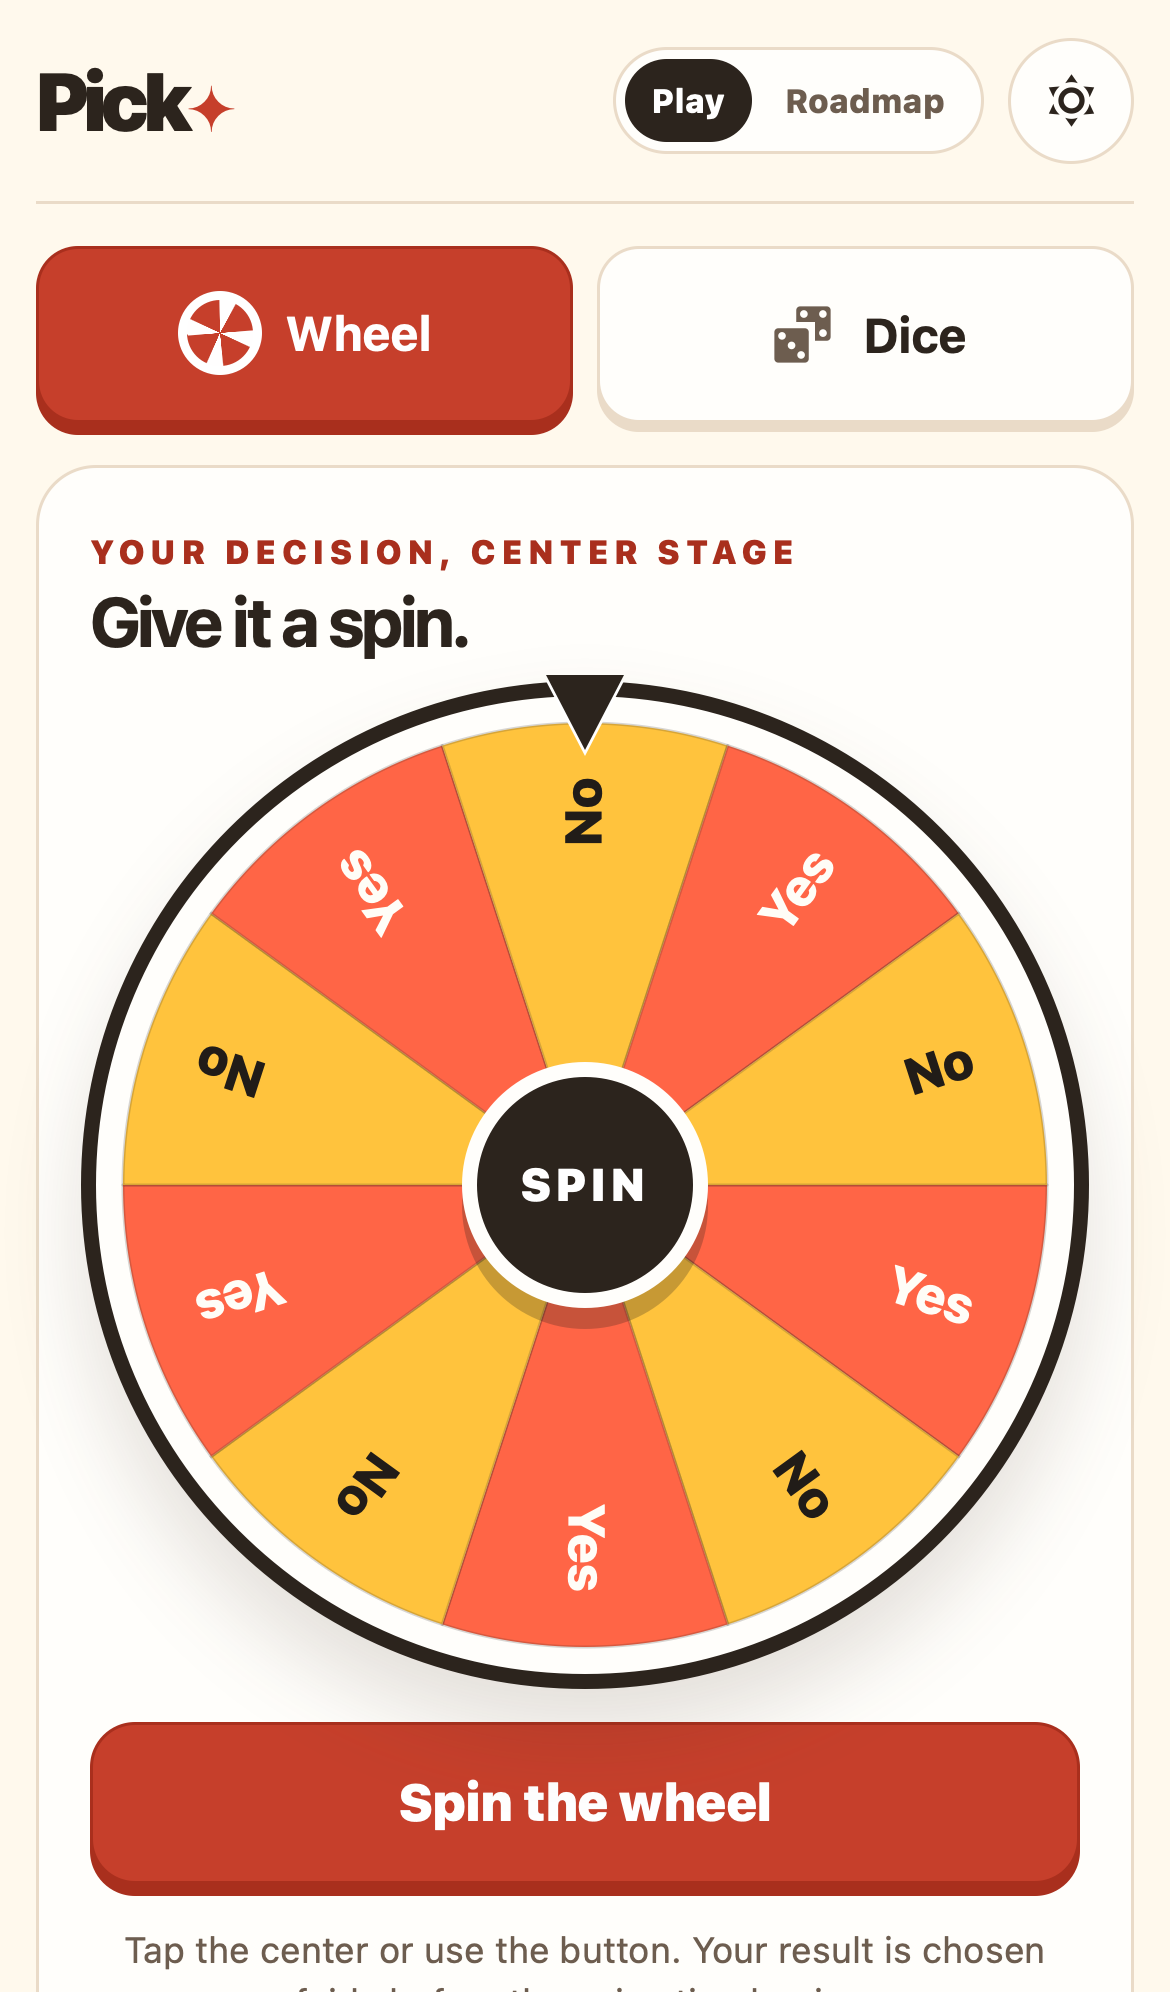
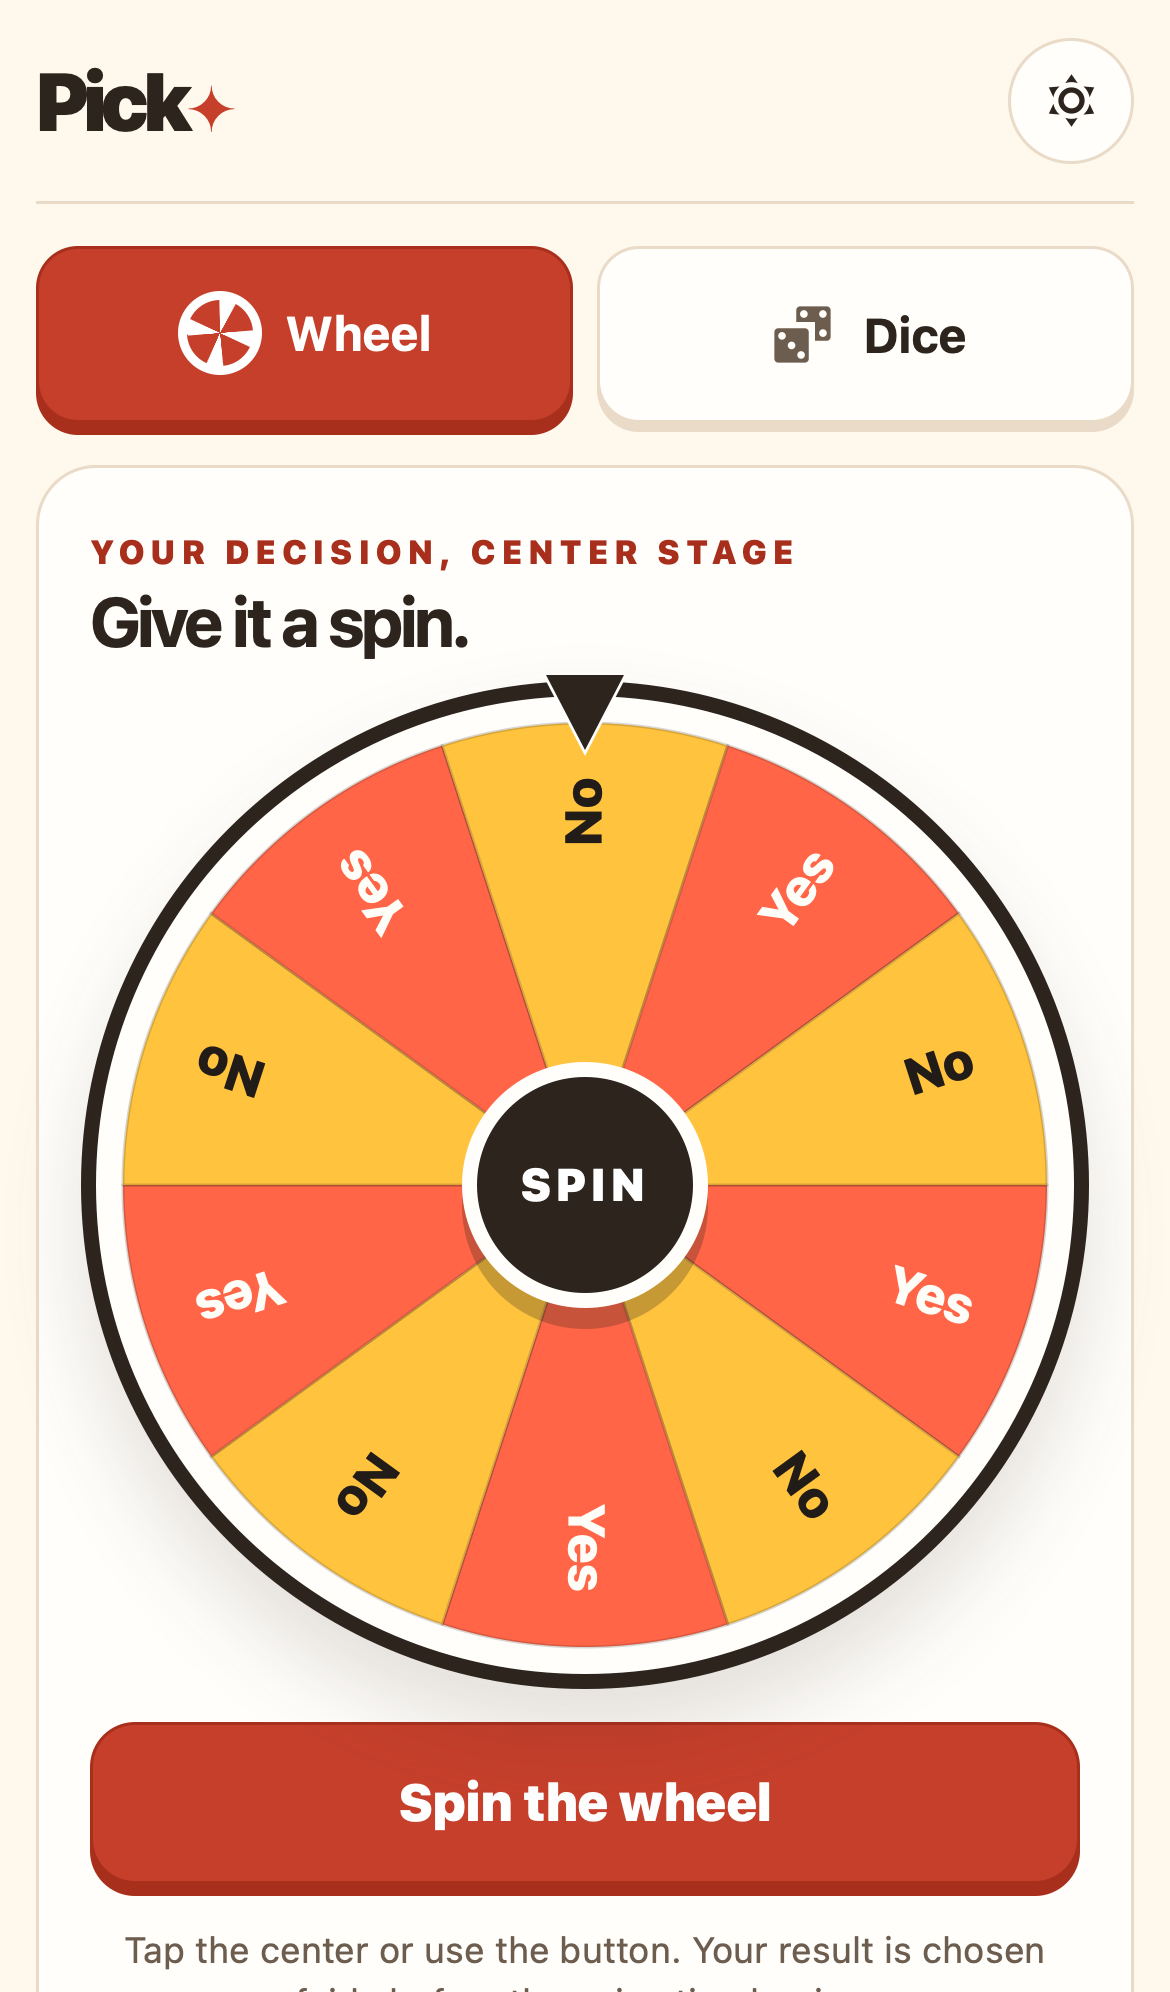
Keep redesign roadmap out of Pick UI

Changed region(s): [[0.5231, 0.0311, 0.6462, 0.0934], [0.6769, 0.0311, 0.8, 0.0622]]

diff --git a/redesign/src/App.svelte b/redesign/src/App.svelte
@@ -200,10 +200,6 @@
 <div class:dark-preview={darkPreview} class="app-shell">
   <header class="site-header">
     <a class="brand" href="#/" aria-label="Pick home">Pick<span>✦</span></a>
-    <nav aria-label="Primary navigation">
-      <a class:active={route === '' || route === '/'} href="#/">Play</a>
-      <a class:active={route === '/roadmap'} href="#/roadmap">Roadmap</a>
-    </nav>
     <button
       class="icon-button"
       type="button"
@@ -224,14 +220,14 @@
           <span class="tab-icon wheel-mark" aria-hidden="true"></span>
           <span><strong>Wheel</strong><small>Make a decision</small></span>
         </button>
-        <a class="product-tab" href="#/roadmap">
+        <div class="product-tab unavailable" aria-disabled="true">
           <Icon icon={diceMultiple} width="25" />
           <span><strong>Dice</strong><small>Coming next</small></span>
-        </a>
-        <a class="product-tab compact" href="#/roadmap">
+        </div>
+        <div class="product-tab compact unavailable" aria-disabled="true">
           <Icon icon={chartBar} width="23" />
           <span><strong>Stats</strong><small>Planned</small></span>
-        </a>
+        </div>
       </div>
 
       {#if storageMessage}<p class="storage-message" role="status">
@@ -492,9 +488,7 @@
   </main>
 
   <footer>
-    <span>Pick is private by design. Your choices stay on this device.</span><a
-      href="#/roadmap">See the redesign roadmap</a
-    >
+    <span>Pick is private by design. Your choices stay on this device.</span>
   </footer>
 </div>
 

diff --git a/redesign/src/styles.css b/redesign/src/styles.css
@@ -95,7 +95,7 @@ a {
 .site-header {
   height: 82px;
   display: grid;
-  grid-template-columns: 1fr auto 1fr;
+  grid-template-columns: 1fr auto;
   align-items: center;
   border-bottom: 1px solid var(--line);
 }
@@ -109,26 +109,6 @@ a {
 }
 .brand span {
   color: var(--accent);
-}
-.site-header nav {
-  display: flex;
-  gap: 7px;
-  padding: 5px;
-  border: 1px solid var(--line);
-  border-radius: 999px;
-  background: var(--surface);
-}
-.site-header nav a {
-  padding: 7px 17px;
-  border-radius: 999px;
-  text-decoration: none;
-  font-size: 13px;
-  font-weight: 800;
-  color: var(--muted);
-}
-.site-header nav a.active {
-  color: white;
-  background: var(--ink);
 }
 .icon-button {
   justify-self: end;
@@ -182,6 +162,12 @@ a {
 .product-tab.active strong,
 .product-tab.active small {
   color: white;
+}
+.product-tab.unavailable {
+  cursor: default;
+}
+.product-tab.unavailable small::after {
+  content: ' · unavailable';
 }
 .wheel-mark {
   width: 28px;
@@ -680,7 +666,7 @@ footer {
   min-height: 76px;
   display: flex;
   align-items: center;
-  justify-content: space-between;
+  justify-content: center;
   gap: 20px;
   border-top: 1px solid var(--line);
   color: var(--muted);
@@ -801,16 +787,8 @@ footer {
   }
   .site-header {
     height: 68px;
-    grid-template-columns: 1fr auto auto;
+    grid-template-columns: 1fr auto;
     gap: 8px;
-  }
-  .site-header nav {
-    gap: 2px;
-    padding: 3px;
-  }
-  .site-header nav a {
-    padding: 6px 9px;
-    font-size: 11px;
   }
   .brand {
     font-size: 27px;

diff --git a/.design-audit/2026-10-25/comparison.html b/.design-audit/2026-10-25/comparison.html
@@ -1,0 +1,20 @@
+<!doctype html>
+<html lang="en">
+  <head>
+    <meta charset="utf-8" />
+    <title>Pick redesign comparison</title>
+    <style>
+      body { margin: 0; padding: 24px; background: #211c18; color: #fff9ed; font: 700 14px system-ui; }
+      main { display: grid; grid-template-columns: 1fr 1fr; gap: 20px; max-width: 1040px; margin: auto; }
+      figure { margin: 0; }
+      figcaption { margin-bottom: 8px; }
+      img { display: block; width: 100%; aspect-ratio: 500 / 789; object-fit: cover; object-position: top; background: white; }
+    </style>
+  </head>
+  <body>
+    <main>
+      <figure><figcaption>Selected direction · mobile foundation</figcaption><img src="../../docs/images/redesign-direction-mobile.png" alt="Selected redesign direction" /></figure>
+      <figure><figcaption>Implementation · interactive wheel</figcaption><img src="../../docs/images/redesign-mobile.png" alt="Implemented interactive wheel" /></figure>
+    </main>
+  </body>
+</html>

diff --git a/redesign/checks/browser/foundation.spec.ts b/redesign/checks/browser/foundation.spec.ts
@@ -106,10 +106,15 @@ test('presets restore useful slice counts and custom state shows Select', async 
   await expect(preset).toHaveValue('');
 });
 
-test('roadmap keeps the complete inventory reachable and filterable', async ({
+test('roadmap has no main-app entry point and remains direct-address only', async ({
   page,
 }) => {
-  await page.getByRole('link', { name: 'Roadmap', exact: true }).click();
+  await expect(page.locator('a[href="#/roadmap"]')).toHaveCount(0);
+  await expect(page.locator('a[href^="#/requirements/"]')).toHaveCount(0);
+  await expect(page.getByText('Dice', { exact: true })).not.toHaveRole('link');
+  await expect(page.getByText('Stats', { exact: true })).not.toHaveRole('link');
+
+  await page.goto('/#/roadmap');
   await expect(page.locator('.card')).toHaveCount(entries.length);
   const category = entries[0].category;
   await page.getByRole('button', { name: category, exact: true }).click();

diff --git a/docs/redesign/migration.md b/docs/redesign/migration.md
@@ -22,17 +22,20 @@ Before first migrated write, capture representative old records, validate and ve
 
 ## Implementation sequence
 
-1. **Foundation (this branch):** source inventory, acceptance criteria, architecture, isolated package, typed shell, accessible feature explorer, browser checks and screenshots.
-2. **First complete feature:** Extract seeded probability and Catan transitions into typed domain modules, then deliver one complete wheel flow with save/resume and accessible results.
-3. **Expand in coherent groups:** implement the remaining feature families with current state/serialization fixtures and browser evidence. Maintain old routes through aliases where required. Update parity status and attach exact test paths and evidence commits.
-4. **PWA and recovery:** versioned storage migration, offline asset graph, scope-safe update handling, install/standalone testing, quota/private mode and multi-tab behavior.
-5. **Parity release:** execute every acceptance case and the full original regression suite; review documented corrections, data migration, artwork and real device behavior. No open blocker may be hidden behind an implemented status.
+1. **Foundation (complete):** source inventory, acceptance criteria, architecture, isolated package, accessible feature explorer, browser checks and baseline captures.
+2. **First complete feature (implemented):** P01/P02 wheel flow with editable options, presets, weighted selection, visual repeats, isolated local save/resume, responsive canvas and accessible results. The parity status remains `implemented`, not `verified`.
+3. **Next feature group:** P03 sound, boundary ticks, result celebration and ambient idle motion. Retain the seven-second weighted landing, add cancellation/lifecycle tests, and test reduced motion and muted audio.
+4. **Expand in coherent groups:** statistics, standard dice, Catan, verse discovery and accessibility preferences. Use current state/serialization fixtures and browser evidence. Keep each feature's status explicit.
+5. **PWA and recovery:** versioned storage migration, offline asset graph, scope-safe update handling, install/standalone testing, quota/private mode and multi-tab behavior.
+6. **Parity release:** execute every acceptance case and the full original regression suite; review documented corrections, data migration, artwork and real-device behavior. No open blocker may be hidden behind an implemented status.
 
 ## Branch and rollout policy
 
-Push this milestone to `codex/redesign-foundation`; do not merge or deploy it automatically. The dedicated workflow validates the new package on that branch and relevant pull requests. Existing app source, root package dependencies, production service workers and release flags are not changed by the foundation. Build output stays in ignored package-local cache; the lockfile is committed.
+Continue on `codex/redesign-foundation`; do not merge or deploy it automatically. The latest saved milestone is the first complete wheel feature. The redesign package remains separate from the production entry point and service worker. Build output stays in ignored package-local cache; its lockfile is committed.
 
 Use a separate preview origin during later implementation. Before replacing the public app, validate old-to-new storage fixtures, an explicit return/backup path, inbound URLs, service-worker update behavior and full feature parity. An old service worker can intercept new paths on the same origin, so preview isolation must be operational rather than a folder name alone.
+
+The parity roadmap is an internal diagnostic page at `/#/roadmap`. Per the product decision, it has no link in the playable UI and is reachable only when its exact URL is entered directly.
 
 ## Trace checklist for every migrated feature
 

diff --git a/docs/redesign/verification.md b/docs/redesign/verification.md
@@ -19,13 +19,13 @@ Verified on 2026-10-25 against the source baseline recorded in [the inventory](p
 | Root JavaScript baseline suite | 84/84 passed at the foundation baseline; rerun before parity sign-off |
 | Desktop and mobile captures | Generated from production build and visually inspected |
 
-Browser coverage edits and restores options, validates integer weight drafts, changes visual repeats, exercises presets and custom-state recovery, spins through the real result dialog, checks keyboard use and reduced motion, verifies responsive canvas geometry, traverses the roadmap, and asserts no external requests. This is implementation evidence for P01/P02, not complete parity sign-off.
+Browser coverage edits and restores options, validates integer weight drafts, changes visual repeats, exercises presets and custom-state recovery, spins through the real result dialog, checks keyboard use and reduced motion, verifies responsive canvas geometry, proves the main UI has no roadmap or requirement links, directly addresses the internal roadmap, and asserts no external requests. This is implementation evidence for P01/P02, not complete parity sign-off.
 
 Commands: `npm --prefix redesign run build`, `npm --prefix redesign test`, `npm --prefix redesign run check:format`, `npm --prefix redesign run test:browser`, `npm --prefix redesign run capture`. Browser tests use the built preview; baseline JavaScript tests use the existing root runner. Dependencies are exact-pinned with package-local locks.
 
 ## Trace findings and fixes
 
-The trace covered the original wheel entry points, presets, option identity, input-set expansion, weight validation, cryptographic selection, animation/result ownership, persistence boundaries, canvas resizing, responsive layout, roadmap consumers, documentation, capture script and browser checks.
+The trace covered the original wheel entry points, presets, option identity, input-set expansion, weight validation, cryptographic selection, animation/result ownership, persistence boundaries, canvas resizing, responsive layout, every roadmap-link consumer, documentation, capture script and browser checks. The header, Dice, Stats and footer entry points were removed together; the direct route and its internal detail links remain intentionally available.
 
 The browser trace caught three issues before sign-off: ambiguous option-row test selectors, a mobile-only hidden count assertion, and insufficient text contrast on the coral action color. The implementation now uses exact semantic selectors, asserts mobile-visible outcomes, and uses an AA-passing darker coral. The capture trace then exposed a blank first-frame WebKit canvas: the renderer now performs an initial layout measurement in addition to observing resizes, and both the browser suite and capture script require a painted canvas pixel. This was a missed lifecycle-to-capture trace, corrected before handoff. The capture script also still waited for the retired catalog home; tracing its consumer surfaced and corrected that stale assumption.
 

diff --git a/docs/redesign/resume.md b/docs/redesign/resume.md
@@ -1,0 +1,19 @@
+# Resume this redesign in Codex cloud
+
+## Current checkpoint
+
+- Repository: `pick`
+- Branch: `codex/redesign-foundation`
+- Architecture: Svelte + TypeScript + Vite under `redesign/`
+- Implemented: P01 decision wheel and P02 weighted selection, including local save/resume and accessible results
+- Product decision: roadmap at `/#/roadmap` is direct-address only; do not add a visible UI link
+- Remaining planned groups and release gates: [requirements](requirements.md), [migration plan](migration.md), [verification](verification.md)
+
+## Start a cloud task
+
+1. Open the `pick` repository in Codex cloud and select branch `codex/redesign-foundation`.
+2. Start the task with: “Continue the Pick redesign from `docs/redesign/resume.md`. Read `docs/redesign/requirements.md`, `docs/redesign/architecture.md`, and `docs/redesign/migration.md` first. Preserve the roadmap as direct-address only. Continue with P03 sound, boundary ticks, celebration, and idle motion. Update parity evidence and run the documented redesign checks.”
+3. Work in `redesign/`; the original root app and `js/` modules remain the behavior reference. Keep new persistence isolated until the explicit legacy migration phase.
+4. Before a handoff, run the checks in `docs/redesign/verification.md`, update the pending-work list and commit on this branch.
+
+The current wheel foundation commit is the parent of the pending roadmap visibility update in this checkpoint. Re-check the branch head after opening it in cloud so the task starts from the latest pushed commit.

diff --git a/redesign/design-qa.md b/redesign/design-qa.md
@@ -17,7 +17,7 @@ Focused evidence was not split into a second crop because the combined mobile fr
 
 ## Comparison history
 
-- Initial browser review found the coral action token at 3.72:1 and a mobile route discoverability gap. The accent was darkened to `#c63f2b`, and the Play/Roadmap navigation remains visible at mobile widths.
+- Initial browser review found the coral action token at 3.72:1 and a mobile route discoverability gap. The accent was darkened to `#c63f2b`. The later explicit product decision supersedes route discoverability: the internal roadmap is now intentionally direct-address only and absent from the playable UI.
 - The first production mobile capture exposed a blank first-frame WebKit canvas. The renderer now measures on first animation frame and after fonts load, while resize observation handles later changes; capture and browser checks require a non-transparent canvas pixel.
 - Post-fix evidence: `../docs/images/redesign-comparison-mobile.png`; automated WCAG checks report no violations on the wheel, result dialog, roadmap or detail routes.
 

diff --git a/docs/redesign/architecture.md b/docs/redesign/architecture.md
@@ -31,7 +31,7 @@ Randomness, time and identifiers are injected into pure rules so tests can repla
 
 ## Routes and composition
 
-Target product surfaces: Wheel, Statistics, Dice, Catan, verse dialog, preferences. Foundation routes are `/` and `/requirements/:id` within the URL hash. Unknown feature routes provide recovery; route changes focus the heading. Catalog search and category buttons are accessible native controls. The browser tests cover actual built navigation and data rendering.
+Target product surfaces: Wheel, Statistics, Dice, Catan, verse dialog, preferences. Product routes use the URL hash. The internal parity roadmap remains available only by directly entering `/#/roadmap`; no playable-UI control links to it. Its requirement detail routes remain internal evidence surfaces. Unknown routes provide recovery, route changes focus the heading, and browser tests cover direct-address rendering.
 
 ## Svelte boundaries
 

diff --git a/docs/redesign/README.md b/docs/redesign/README.md
@@ -2,7 +2,7 @@
 
 A new implementation of the existing product, grounded in its complete observable behavior.
 
-**Milestone 2 in progress: first complete feature.** The redesign now opens on a responsive, interactive decision wheel with editable options, presets, visual repeats, optional integer weights, local save/resume and an accessible result dialog. The original application remains the behavior reference; the roadmap keeps the remaining feature groups explicit.
+**Milestone 2 in progress: first complete feature.** The redesign now opens on a responsive, interactive decision wheel with editable options, presets, visual repeats, optional integer weights, local save/resume and an accessible result dialog. The original application remains the behavior reference; the internal roadmap at `/#/roadmap` keeps the remaining feature groups explicit without appearing in the playable UI.
 
 | Document | Purpose |
 | --- | --- |
